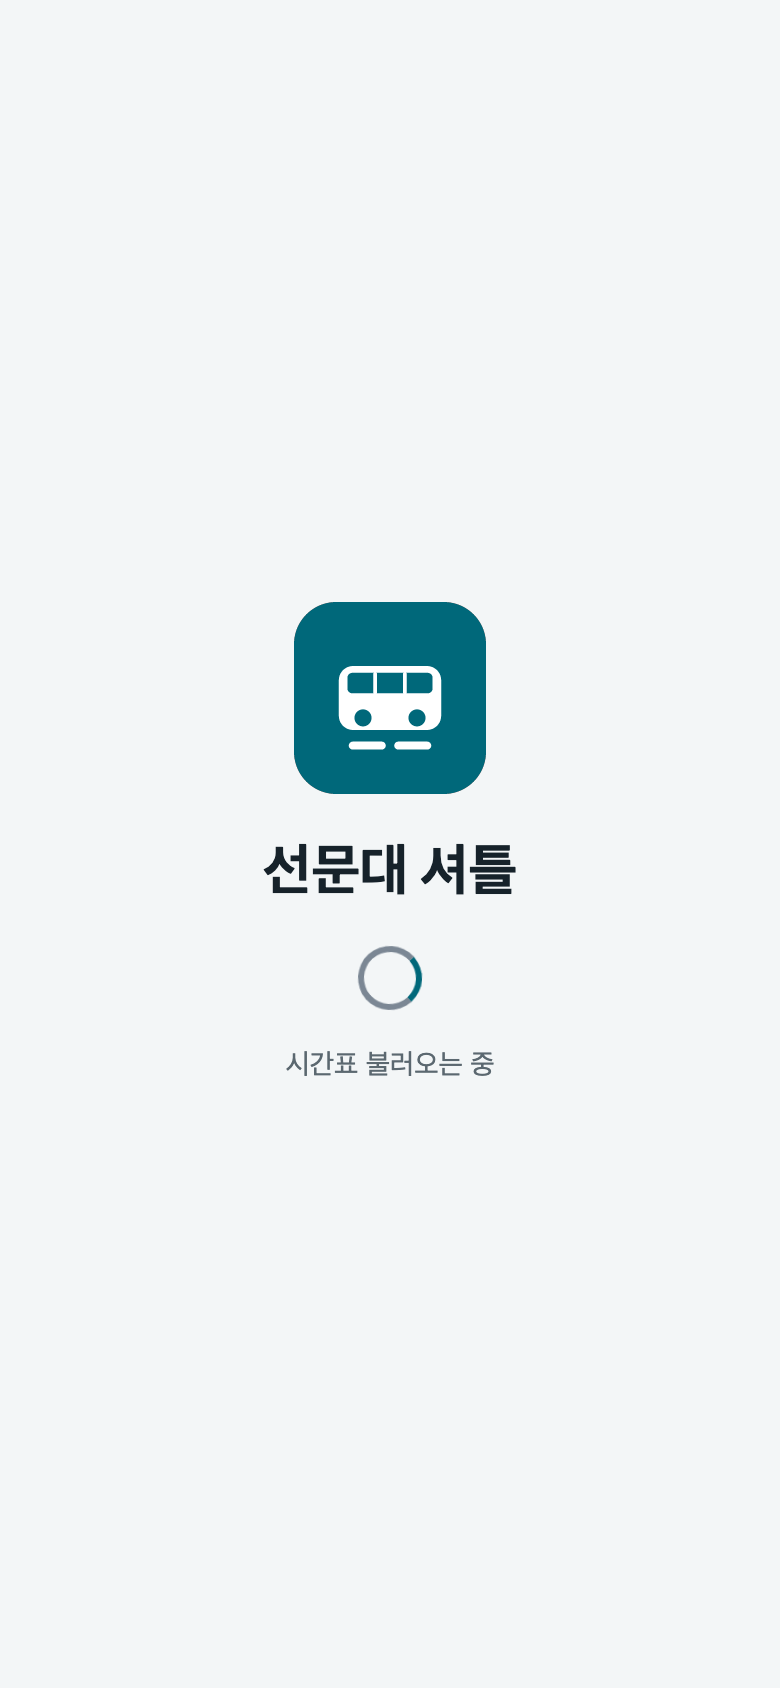
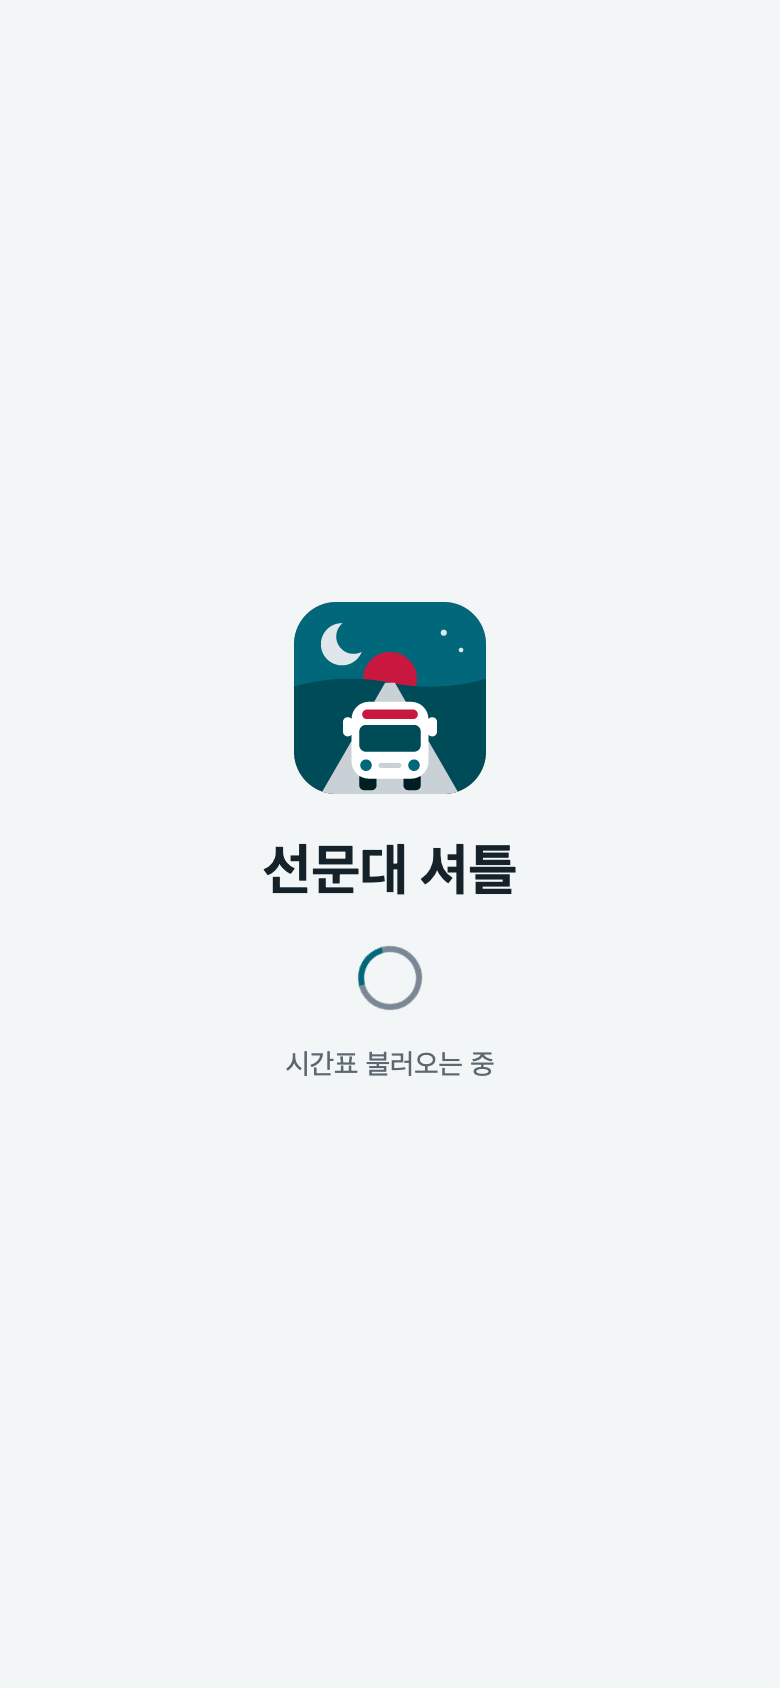
evidence: 새 아이콘 스모크 재실행 산출물

Changed region(s): [[0.3692, 0.3697, 0.6462, 0.4929], [0.5231, 0.5545, 0.5538, 0.5853], [0.4615, 0.5545, 0.4923, 0.5853]]

diff --git a/.session-notes/T7-a11y-report.md b/.session-notes/T7-a11y-report.md
@@ -1,13 +1,13 @@
 # T7·T11 감사 원출력 (a11y_smoke.mjs)
 
-- 일시: 2026-11-14T08:35:42.342Z
-- URL: http://127.0.0.1:59309/sunmoon-shuttle/?now=2026-10-05T14%3A40%3A00%2B09%3A00
+- 일시: 2026-11-14T08:54:48.680Z
+- URL: http://127.0.0.1:61239/sunmoon-shuttle/?now=2026-10-05T14%3A40%3A00%2B09%3A00
 - 뷰포트: 390×844 @2x (mobile, touch)
 - 스크린샷: .session-notes/T7-light.png · .session-notes/T7-dark.png · .session-notes/T7-focus-skip-link.png · .session-notes/T11-privacy.png
 
 ### ① 매니페스트 (Page.getAppManifest)
 
-- url: http://127.0.0.1:59309/sunmoon-shuttle/manifest.webmanifest
+- url: http://127.0.0.1:61239/sunmoon-shuttle/manifest.webmanifest
 - errors: []
 - name: 선문대 셔틀버스 시간표 · Sunmoon Shuttle Bus
 - short_name: 셔틀버스 Shuttle
@@ -19,10 +19,10 @@
 
 | src | sizes | purpose | status | 실제 치수 | 바이트 |
 |---|---|---|---|---|---|
-| ./icons/icon-192.png | 192x192 | any | 200 | 192x192 | 1991B |
-| ./icons/icon-512.png | 512x512 | any | 200 | 512x512 | 6079B |
-| ./icons/maskable-192.png | 192x192 | maskable | 200 | 192x192 | 1294B |
-| ./icons/maskable-512.png | 512x512 | maskable | 200 | 512x512 | 4290B |
+| ./icons/icon-192.png | 192x192 | any | 200 | 192x192 | 4009B |
+| ./icons/icon-512.png | 512x512 | any | 200 | 512x512 | 11379B |
+| ./icons/maskable-192.png | 192x192 | maskable | 200 | 192x192 | 3046B |
+| ./icons/maskable-512.png | 512x512 | maskable | 200 | 512x512 | 8653B |
 
 
 ### ③ light — 대비 실측(전체 35개 텍스트 노드)
@@ -226,10 +226,10 @@
 
 
 ### ⑧ 개인정보처리방침(privacy.html · T11)
-- URL: http://127.0.0.1:59309/sunmoon-shuttle/privacy.html (HTTP 200, 6238B)
+- URL: http://127.0.0.1:61239/sunmoon-shuttle/privacy.html (HTTP 200, 6238B)
 - h1: 개인정보처리방침 · 필수 문구 누락: 0건
 - body bg=rgb(243, 246, 247) · color=rgb(22, 34, 42) · 가로 스크롤 없음(scrollWidth=390)
-- 푸터 링크: {"href":"./privacy.html","text":"개인정보처리방침","resolved":"http://127.0.0.1:59309/sunmoon-shuttle/privacy.html"}
+- 푸터 링크: {"href":"./privacy.html","text":"개인정보처리방침","resolved":"http://127.0.0.1:61239/sunmoon-shuttle/privacy.html"}
 - 스크린샷: /Users/leeheesun/Documents/GitHub/sunmoon-shuttle/.session-notes/T11-privacy.png
 
 | 요소 | 문구 | 전경 | 배경 | 크기 | 대비 | 기준 |

diff --git a/.session-notes/T31-본문텍스트노드.md b/.session-notes/T31-본문텍스트노드.md
@@ -1,7 +1,7 @@
 # T31 본문 텍스트 노드 전수 목록 (docs/07 §13-3 · AC-U13-2)
 
-- 일시: 2026-11-14T08:35:39.651Z
-- URL: http://127.0.0.1:59309/sunmoon-shuttle/?now=2026-10-05T14%3A40%3A00%2B09%3A00
+- 일시: 2026-11-14T08:54:45.997Z
+- URL: http://127.0.0.1:61239/sunmoon-shuttle/?now=2026-10-05T14%3A40%3A00%2B09%3A00
 - 뷰포트: 390×844 @2x (mobile, touch) · 라이트 모드 · 미설치 상태(설치 안내 없음)
 - 노드 수: 33개 · 금지 문자열 실측: 0건
 - §9-4 예외 구역(상단 상태 1줄·오류/오프라인 배너)에서 나온 금지 문자열: 합니다 (문서가 남긴 고정 문구 — v1·render·offline 스모크가 그대로 검사한다)
